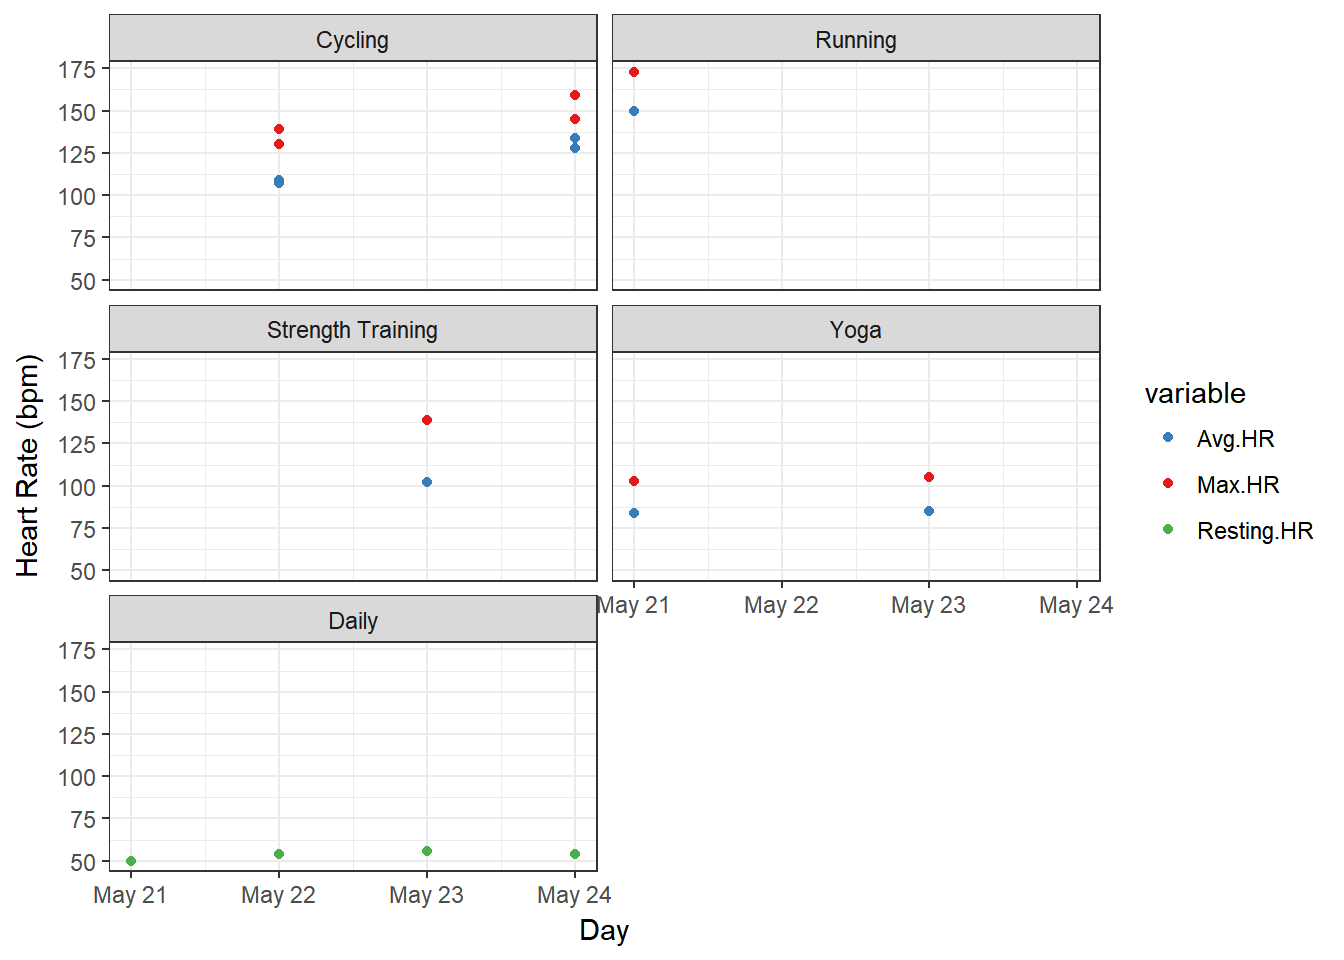
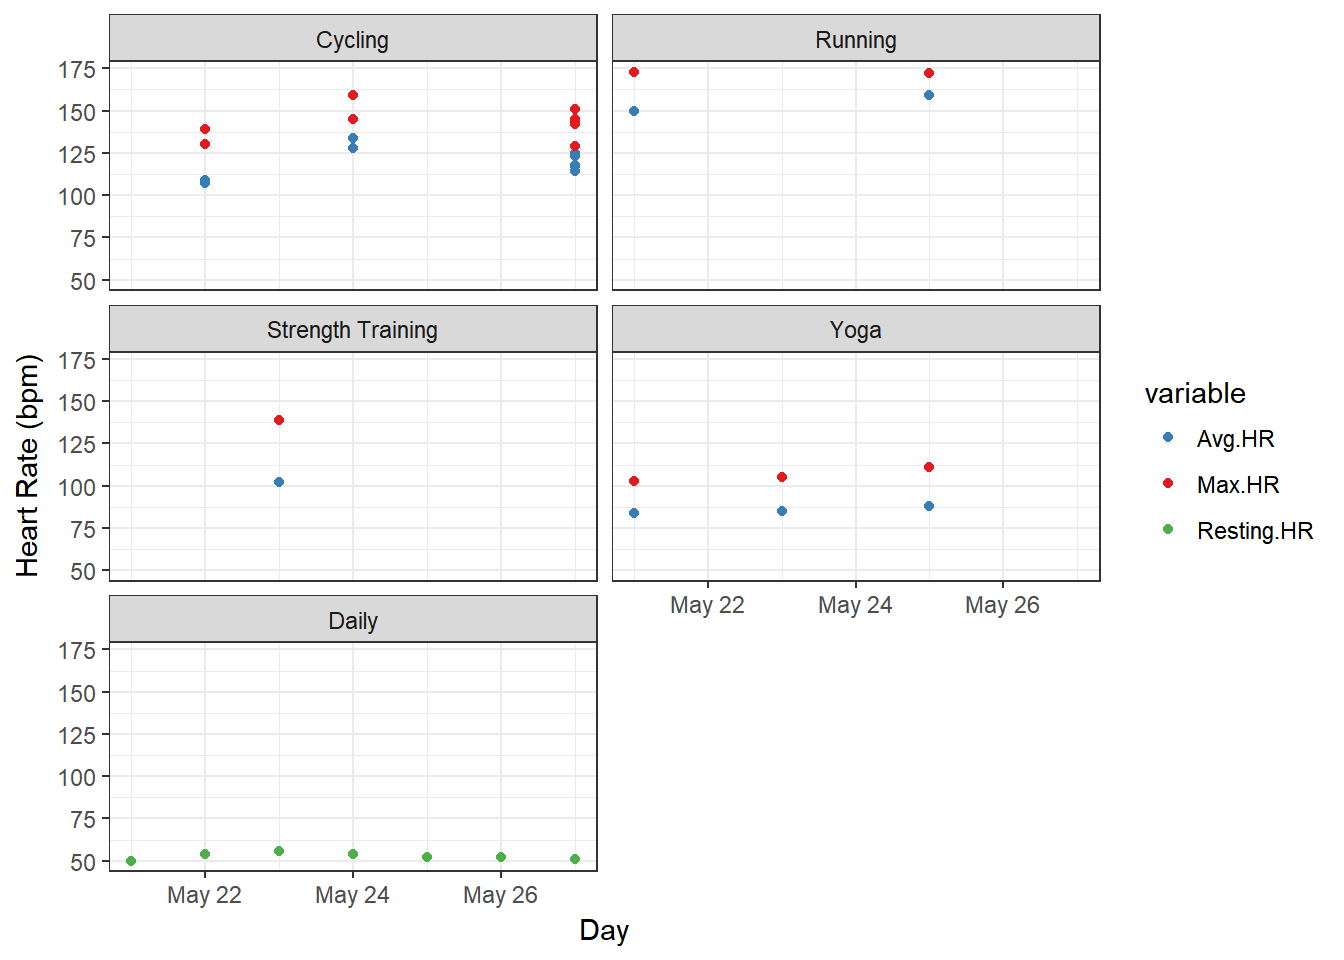
added week 2
plus adjustments on the other pages

diff --git a/docs/WeekTwo.html b/docs/WeekTwo.html
@@ -11,7 +11,7 @@
 
 
 
-<title>Week one</title>
+<title>Week two</title>
 
 <script src="site_libs/jquery-1.11.3/jquery.min.js"></script>
 <meta name="viewport" content="width=device-width, initial-scale=1" />
@@ -250,13 +250,13 @@ $(document).ready(function () {
 
 
 
-<h1 class="title toc-ignore">Week one</h1>
+<h1 class="title toc-ignore">Week two</h1>
 
 </div>
 
 
 <pre class="r"><code># read in data
-data &lt;- read.table(&quot;Week1.csv&quot;, header = TRUE, sep = &quot;,&quot;, na.strings = c(&quot;NA&quot;, 
+data &lt;- read.table(&quot;Week2.csv&quot;, header = TRUE, sep = &quot;,&quot;, na.strings = c(&quot;NA&quot;, 
     &quot;--&quot;, &quot;&quot;))
 
 # convert time/date objects
@@ -273,7 +273,7 @@ dataf$Types &lt;- reorder(dataf$Type, a)
 # first look
 summary(data)
 dataf</code></pre>
-<p>My week one data contains activities I tracked from last Sunday (May 14) to Saturday (May 20), sorted into different types (cycling, running, etc.) together with relevant data, as well as some overall statistics for each day. Here is a table showing how much time I spent with each activity:</p>
+<p>My week two data contains activities I tracked from May 21st to May 27th, again sorted into different types (cycling, running, etc.) together with relevant data, as well as some overall statistics for each day. Here is a table showing how much time I spent with each activity:</p>
 <pre class="r"><code>kable(ddply(dataf, .(Type), summarise, duration = sum(Time)), format = &quot;html&quot;, 
     table.attr = &quot;style=&#39;width:20%;&#39;&quot;)</code></pre>
 <table style="width:20%;">
@@ -293,7 +293,7 @@ duration
 Cycling
 </td>
 <td style="text-align:right;">
-01:22:56
+03:01:44
 </td>
 </tr>
 <tr>
@@ -309,7 +309,7 @@ NA
 Running
 </td>
 <td style="text-align:right;">
-00:59:57
+00:59:15
 </td>
 </tr>
 <tr>
@@ -317,7 +317,7 @@ Running
 Strength Training
 </td>
 <td style="text-align:right;">
-00:35:01
+00:23:25
 </td>
 </tr>
 <tr>
@@ -325,16 +325,17 @@ Strength Training
 Yoga
 </td>
 <td style="text-align:right;">
-00:30:00
+00:59:59
 </td>
 </tr>
 </tbody>
 </table>
 <p><br></p>
-<p>I spent a lot of workout time cycling, but I have to admit that I don’t actually cycle for exercise, but rather to get from A to B. Since the weather was good and we’re currently having some days off, we used our bikes for all kinds of errands… My legs were sore afterwards, though, so it’s still a workout, right?</p>
+<p>I cycled a lot this week, since we were still on vacation and could do a lot with the bikes. Expect a drop in this statistic when I get back to work tomorrow…<br />
+I feel like I haven’t done enough strength training, just looking at these numbers. But then, a strength workout only has to last 15 minutes, and the way my body hurts it must have been enough. There’s always also moving stuff around, which costs strength and isn’t shown here at all.</p>
 <div id="workout-duration" class="section level3">
 <h3>Workout duration</h3>
-<p>Since workout duration is important for <a href="https://twitter.com/search?f=tweets&amp;vertical=default&amp;q=%23summerpain&amp;src=typd">#SummerPain</a>, a bar chart could be helpful to check on which days I exercised “enough”.</p>
+<p>Since workout duration is important for <a href="https://twitter.com/search?f=tweets&amp;vertical=default&amp;q=%23summerpain&amp;src=typd">#SummerPain</a>, I’m visualising it for each day with a bar chart.</p>
 <pre class="r"><code># extract day from activity start
 dataf$Day &lt;- as.Date(dataf$Start)
 
@@ -346,17 +347,18 @@ p1 &lt;- ggplot(datas, aes(x = Day, y = Time, fill = Type)) + geom_bar(stat = &q
 p1 &lt;- p1 + scale_y_chron(labels = date_format(&quot;%Hh %Mm %Ss&quot;))
 p1 &lt;- p1 + theme_classic() + scale_x_date(date_breaks = &quot;1 day&quot;, date_labels = &quot;%B %d&quot;)
 p1</code></pre>
-<p><img src="WeekOne_files/figure-html/PlotTime-1.png" width="672" /></p>
-<p>On the first day, we were cycling to run errands and get dinner, so I tracked two separate instances, almost adding up to 30 minutes of cardio that day. With my lack of previous exercise, this was already quite enough.<br />
-The running workout on May 15th lasted for almost 30 minutes (29:50 min), because I’ve become “too fast” on our usual route. Since we’re going to move in a month and have to find a totally new route then, I’m not willing to change the routine now, though. However long the run takes, it’s one cardio workout.<br />
-May 16th was a strength day with additional cycling to run more errands - one strength workout completed.<br />
-Since I’m using yoga for flexibility training and stretching (as opposed to cardio or strength) the two cycling blocks will have to be enough to count for another workout on May 17th.<br />
-Running on May 18th was slow and painful - at least that means I was out “long enough” (30:07 min). ;-)<br />
-May 19th was a bit more than 15 minutes strength training again, and May 20th was an impromptu rest day, where we were busy organising the move and moving some unimportant stuff.</p>
+<p><img src="WeekTwo_files/figure-html/PlotTime-1.png" width="672" /></p>
+<p>May 21st was a running day, and since we didn’t run early in the morning, we finished that workout with 15 minutes of “yoga for runners” to stretch.<br />
+May 22nd included a cycling trip into the city and back, which takes around 20 minutes to half an hour one way. I’m still not fully convinced I should call that cardio, since I didn’t sweat much or anything, but exercise is exercise…<br />
+May 23rd was strength training (15 minutes plus 5 minutes cardio warm-up) followed by half an hour of flexibility yoga, which was great.<br />
+On May 24th I cycled on my own, which means that I was faster - despite my taking some detours, I didn’t manage to get over the 30 min mark. On the other hand, it was definitely cardio, as you’ll see in the heart rate data.<br />
+We went running on May 25th, and again followed that with 15 minutes of stretching yoga.<br />
+May 26th was busy organising at the new flat, and since we had to bring heavy stuff we had to take the car. We built our first own <a href="https://twitter.com/LilithElina/status/868359511232348161">work bench</a> that day, but didn’t exercise.<br />
+And then there’s May 27th! :-D We cycled into the city to get inspiration for our small bathroom and had great salad for lunch (upper two blocks) before returning home (longest block). Then we cycled to our new flat to get some work done, cycled from there to a great Biergarten, and then home from there (lowest three blocks). For now, I’ll stick to counting one workout per day, but this day must be worth at least two.</p>
 </div>
 <div id="heart-rate-data" class="section level3">
 <h3>Heart rate data</h3>
-<p>Measuring the duration of workouts is one thing, but my Garmin data of course provides a lot more information. For example, I wonder if I should count my rather slow cycling as cardio workout (because cycling usually is for cardio) or rather as strength training (since I got sore legs). A look at my heart rate (HR) data might be helpful to answer that question, and luckily I have my average and peak heart rate for each workout at hand.</p>
+<p>In the <a href="Overview.html">overview</a>, I’m showing my average and maximum heart rates per workout type as box plots for the different calendar weeks, but for weekly data I’ll stick to simple data points.</p>
 <pre class="r"><code># melt HR data
 HRdata &lt;- melt(dataf, id.vars = c(&quot;Activity&quot;, &quot;Types&quot;, &quot;Day&quot;), measure.vars = c(&quot;Avg.HR&quot;, 
     &quot;Max.HR&quot;, &quot;Resting.HR&quot;))
@@ -366,14 +368,13 @@ p2 &lt;- ggplot(data = HRdata, aes(x = Day, y = value, colour = variable)) + geo
 p2 &lt;- p2 + facet_wrap(~factor(Types), nrow = 3)
 p2 &lt;- p2 + theme_bw() + labs(y = &quot;Heart Rate (bpm)&quot;)
 p2</code></pre>
-<p><img src="WeekOne_files/figure-html/PlotHR-1.png" width="672" /></p>
-<p>Running definitely results in higher average and maximum heart rates compared to cycling, but cycling at least stays above the 100 bpm mark also for the average heart rate. According to that <a href="https://en.wikipedia.org/wiki/Aerobic_exercise#/media/File:Exercise_zones_Fox_and_Haskell.svg">Fox and Haskell</a> formula thing, I’m moving in the “Fitness” zone when cycling, while running pushes my heart all the way up to anaerobic or even maximum effort zones. So, if I average both workout types together I should be fine for cardio, right? :-D<br />
-Strength training gets less of a raise out of my heart rate, and yoga is of course relaxed and not exercise in any HR sense.<br />
-Just for fun I also added my daily resting heart rate (RHR) to the plot, which varied from 51 to 54 bpm that week. I think it was lower when I used a Microsoft Band 2 compared to now, but that could be due to different algorithms calculating that metric. According to some charts I found online (while I don’t know anything about this scientifically) I’m still very well off with my current RHR, so I’m happy.</p>
+<p><img src="WeekTwo_files/figure-html/PlotHR-1.png" width="672" /></p>
+<p>As expected, my average and maximum heart rates while cycling were higher on May 24th compared to May 21st (or even May 27th) - the difference between cycling for transportation and actually trying to convert cycling into exercise. I still didn’t reach the same HR as in running, but that’s fine.<br />
+I only did one strength workout this week, something I could improve on next week. Cardio was definitely enough, and despite the three yoga sessions I did, I feel sore enough to want more of that for relaxation…</p>
 </div>
 <div id="calorie-burn" class="section level3">
 <h3>Calorie burn</h3>
-<p>The third metric I definitely want to include is calorie burn, since I always think it’s interesting to know what difference exercise makes compared to a workout-free day.</p>
+<p>The third metric I wanted to include is calorie burn, since I always think it’s interesting to know what difference exercise makes compared to a workout-free day.</p>
 <pre class="r"><code># reorder types for this plot
 b &lt;- recode(as.numeric(as.factor(dataf$Types)), &quot;1=2; 2=3; 3=4; 4=5; 5=1&quot;)
 dataf$Types &lt;- reorder(dataf$Type, b)
@@ -387,21 +388,20 @@ p3 &lt;- ggplot(datacm, aes(x = Day, y = Calories, fill = Type)) + geom_bar(stat
     position = &quot;identity&quot;) + scale_fill_brewer()
 p3 &lt;- p3 + theme_classic() + scale_x_date(date_breaks = &quot;1 day&quot;, date_labels = &quot;%B %d&quot;)
 p3</code></pre>
-<p><img src="WeekOne_files/figure-html/PlotCalories-1.png" width="672" /></p>
-<p>Not surprisingly, running burns the most calories. What does surprise me is that this doesn’t seem to have much influence over my general daily calorie burn, since there’s quite a difference between the two running days. Maybe my overall daily activity has a greater influence than actual exercise?</p>
+<p><img src="WeekTwo_files/figure-html/PlotCalories-1.png" width="672" /></p>
+<p>Not surprisingly, May 27th shows by far the highest calorie burn, while May 23rd - the day of the strength training - shows the lowest burn. Yoga burned surprisingly many calories on that day, but that’s probably due to the duration of the session. The two running days seem pretty equal, and I definitely burned more calories cycling this week than with any other exercise.</p>
 <pre class="r"><code># subset for only daily data
 datad &lt;- dataf[dataf$Type == &quot;Daily&quot;, ]
 
 p4 &lt;- ggplot(datad, aes(x = Day, y = Steps, colour = Calories)) + geom_point()
 p4 &lt;- p4 + theme_classic() + scale_x_date(date_breaks = &quot;1 day&quot;, date_labels = &quot;%B %d&quot;)
 p4</code></pre>
-<p><img src="WeekOne_files/figure-html/PlotSteps-1.png" width="672" /></p>
-<p>The days with the lowest calorie burn are not the days with the lowest step count. May 15th does have a lower step count than May 18th (the other running day), though. And May 20th, with no specific exercise, has the most steps, but one of the lower calorie burns.<br />
-Overall, I find it difficult to explain these differences using only exercise and step data. A deeper look into my data revealed that Garmin calculates my basal metabolic rate (BMR) new for each day. It seems to be 1698 calories on most days, but on May 15th it’s down to 1074 calories, which explains the difference despite the OK step count (in fact, I did get quite a number of “active calories” that day). There is no explanation for this difference that I can find, though.</p>
+<p><img src="WeekTwo_files/figure-html/PlotSteps-1.png" width="672" /></p>
+<p>This time, it’s pretty clear that my step count plays a role in my overall calorie burn on most days. May 22nd to May 24th were quite “lazy”, since I worked on this website and almost only moved for the actual workouts. Nevertheless, May 24th looks good despite the low step count - due to the cycling? That’s definitely the cause of the high calorie burn on May 27th, where I also didn’t walk much.</p>
 </div>
 <div id="summary" class="section level3">
 <h3>Summary</h3>
-<p>In summary - when counting cycling as exercise - I completed six workouts in the first week of <a href="https://twitter.com/search?f=tweets&amp;vertical=default&amp;q=%23summerpain&amp;src=typd">#SummerPain</a>. This brings me up to <strong>6/100</strong> workouts as of May 20th.</p>
+<p>In summary - when counting cycling as one workout on any given day - I again completed six workouts in the second week of <a href="https://twitter.com/search?f=tweets&amp;vertical=default&amp;q=%23summerpain&amp;src=typd">#SummerPain</a>. This brings me up to <strong>12/100</strong> workouts as of May 27th.</p>
 </div>
 
 

diff --git a/docs/Overview.html b/docs/Overview.html
@@ -202,6 +202,9 @@ $(document).ready(function () {
     <li>
       <a href="WeekOne.html">Week One</a>
     </li>
+    <li>
+      <a href="WeekTwo.html">Week Two</a>
+    </li>
   </ul>
 </li>
       </ul>
@@ -288,9 +291,9 @@ datas &lt;- subset(dataf, !Type == &quot;Daily&quot;)
 p1 &lt;- ggplot(datas, aes(x = Day, y = Time, fill = Type)) + geom_bar(stat = &quot;identity&quot;, 
     colour = &quot;black&quot;) + scale_fill_brewer(palette = &quot;Set1&quot;)
 p1 &lt;- p1 + scale_y_chron(labels = date_format(&quot;%Hh %Mm %Ss&quot;))
-p1 &lt;- p1 + theme_classic() + scale_x_date(date_breaks = &quot;1 day&quot;, date_labels = &quot;%B %d&quot;)
+p1 &lt;- p1 + theme_classic()
 p1</code></pre>
-<p><img src="Overview_files/figure-html/PlotTime-1.png" width="672" /></p>
+<p><img src="Overview_files/figure-html/PlotTime-1.png" width="1248" /></p>
 </div>
 <div id="heart-rate-data" class="section level3">
 <h3>Heart rate data</h3>
@@ -306,23 +309,28 @@ p2 &lt;- ggplot(data = HRdata, aes(x = factor(Week), y = value, colour = variabl
 p2 &lt;- p2 + facet_wrap(~factor(Types), nrow = 3)
 p2 &lt;- p2 + theme_bw() + labs(y = &quot;Heart Rate (bpm)&quot;, x = &quot;Week&quot;)
 p2</code></pre>
-<p><img src="Overview_files/figure-html/PlotHR-1.png" width="672" /></p>
+<p><img src="Overview_files/figure-html/PlotHR-1.png" width="864" /></p>
 </div>
 <div id="calorie-burn" class="section level3">
 <h3>Calorie burn</h3>
-<pre class="r"><code># reorder types for this plo
+<pre class="r"><code># reorder types for this plo reorder types for this plot
 b &lt;- recode(as.numeric(as.factor(dataf$Types)), &quot;1=2; 2=3; 3=4; 4=5; 5=1&quot;)
 dataf$Types &lt;- reorder(dataf$Type, b)
 
-p3 &lt;- ggplot(dataf, aes(x = Day, y = Calories, fill = Types)) + geom_bar(stat = &quot;identity&quot;) + 
-    scale_fill_brewer()
-p3 &lt;- p3 + theme_classic() + scale_x_date(date_breaks = &quot;1 day&quot;, date_labels = &quot;%B %d&quot;)
+# sum up calories per exercise type per day
+datac &lt;- dcast(dataf, Day ~ Types, sum, value.var = &quot;Calories&quot;)
+datacm &lt;- melt(datac, id.vars = &quot;Day&quot;)
+colnames(datacm) &lt;- c(&quot;Day&quot;, &quot;Type&quot;, &quot;Calories&quot;)
+
+p3 &lt;- ggplot(datacm, aes(x = Day, y = Calories, fill = Type)) + geom_bar(stat = &quot;identity&quot;, 
+    position = &quot;identity&quot;) + scale_fill_brewer()
+p3 &lt;- p3 + theme_classic()
 p3</code></pre>
-<p><img src="Overview_files/figure-html/PlotCalories-1.png" width="672" /></p>
+<p><img src="Overview_files/figure-html/PlotCalories-1.png" width="1248" /></p>
 </div>
 <div id="summary" class="section level3">
 <h3>Summary</h3>
-<p><strong>9/100</strong> workouts done.</p>
+<p><strong>12/100</strong> workouts done.</p>
 <pre class="r"><code>kable(ddply(dataf, .(Type), summarise, duration = sum(Time), calories = sum(Calories)), 
     format = &quot;html&quot;, table.attr = &quot;style=&#39;width:30%;&#39;&quot;)</code></pre>
 <table style="width:30%;">
@@ -345,10 +353,10 @@ calories
 Cycling
 </td>
 <td style="text-align:right;">
-02:43:39
+04:24:40
 </td>
 <td style="text-align:right;">
-938
+1549
 </td>
 </tr>
 <tr>
@@ -359,7 +367,7 @@ Daily
 NA
 </td>
 <td style="text-align:right;">
-22109
+28727
 </td>
 </tr>
 <tr>
@@ -367,10 +375,10 @@ NA
 Running
 </td>
 <td style="text-align:right;">
-01:29:32
+01:59:12
 </td>
 <td style="text-align:right;">
-831
+1118
 </td>
 </tr>
 <tr>
@@ -389,16 +397,16 @@ Strength Training
 Yoga
 </td>
 <td style="text-align:right;">
-01:14:58
+01:29:59
 </td>
 <td style="text-align:right;">
-183
+230
 </td>
 </tr>
 </tbody>
 </table>
 <p><br></p>
-<p><a href="https://twitter.com/i/moments/867351430079840256">#SummerPain on twitter</a></p>
+<p><a href="https://twitter.com/i/moments/867351430079840256">My #SummerPain on twitter</a></p>
 </div>
 
 

diff --git a/docs/index.html b/docs/index.html
@@ -202,6 +202,9 @@ $(document).ready(function () {
     <li>
       <a href="WeekOne.html">Week One</a>
     </li>
+    <li>
+      <a href="WeekTwo.html">Week Two</a>
+    </li>
   </ul>
 </li>
       </ul>
@@ -254,7 +257,7 @@ $(document).ready(function () {
 
 <p>I’m taking a break from my <a href="http://lilithelina.tumblr.com/BCCIUoverview">coursera</a> project while we prepare to move to a bigger flat and I’m generally busy settling into my role as a postdoc with new projects on top of the old. Nevertheless, a little fun with programming at home can’t be wrong, <a href="https://twitter.com/ThePracticalDev/status/724290052029857796">right</a>?</p>
 <pre class="r"><code>knitr::include_graphics(&quot;weekend_coding.jpg&quot;)</code></pre>
-<p><img src="weekend_coding.jpg" width="200px" style="display: block; margin: auto;" /></p>
+<p><img src="weekend_coding.jpg" width="250px" style="display: block; margin: auto;" /></p>
 <p>Therefore, I thought it could be fun to weekly visualise my progress with the <a href="https://twitter.com/search?f=tweets&amp;vertical=default&amp;q=%23summerpain&amp;src=typd">#SummerPain</a> hashtag on twitter. <a href="https://twitter.com/search?f=tweets&amp;vertical=default&amp;q=%23summerpain&amp;src=typd">#SummerPain</a> was started by <a href="https://twitter.com/Helena_LB">Helena</a> just at the right time - I’d participated in <a href="https://twitter.com/search?f=tweets&amp;q=%2340LentPain&amp;src=typd">#40LentPain</a> before Easter, but then we were on holiday for a week (with no exercise) and I came back with strep throat, so I hadn’t exercised much since then. I hope that <a href="https://twitter.com/search?f=tweets&amp;vertical=default&amp;q=%23summerpain&amp;src=typd">#SummerPain</a> will help me get into the habit again, forcing me to find the time for workouts in my rather full schedule.</p>
 <p>By the way, <a href="https://twitter.com/search?f=tweets&amp;vertical=default&amp;q=%23summerpain&amp;src=typd">#SummerPain</a> means 100 workouts this summer, starting May 14th, with September 15th as deadline, and a workout is defined as either 30 minutes of cardio or 15 minutes of strength training. I might not always adhere to these rules, though, but more on that in <a href="WeekOne.html">week one</a>.</p>
 
